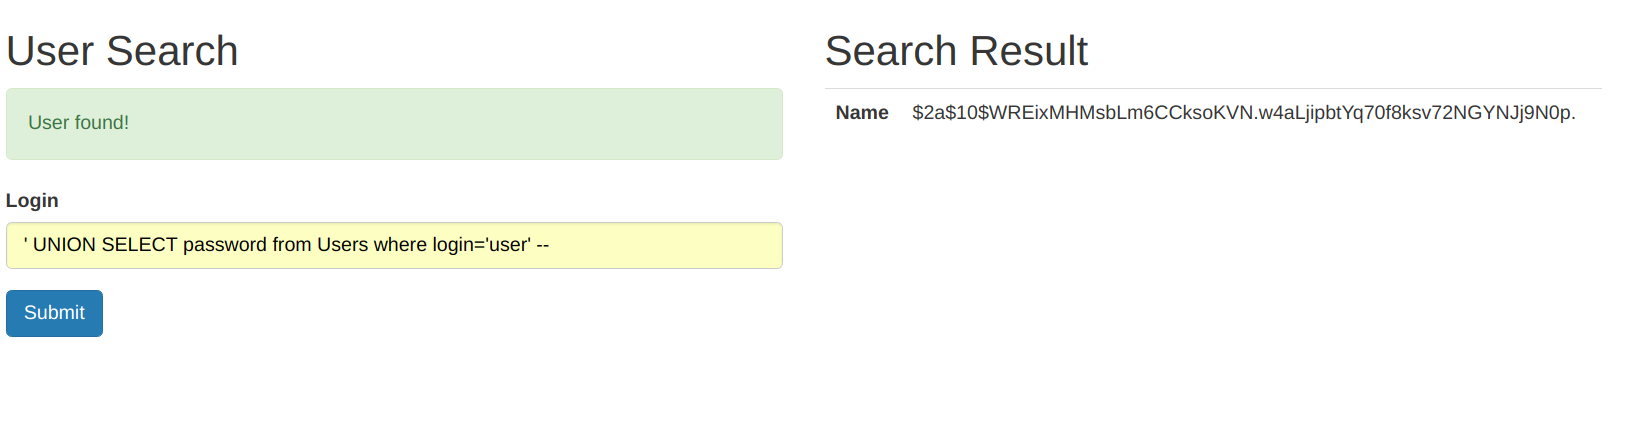
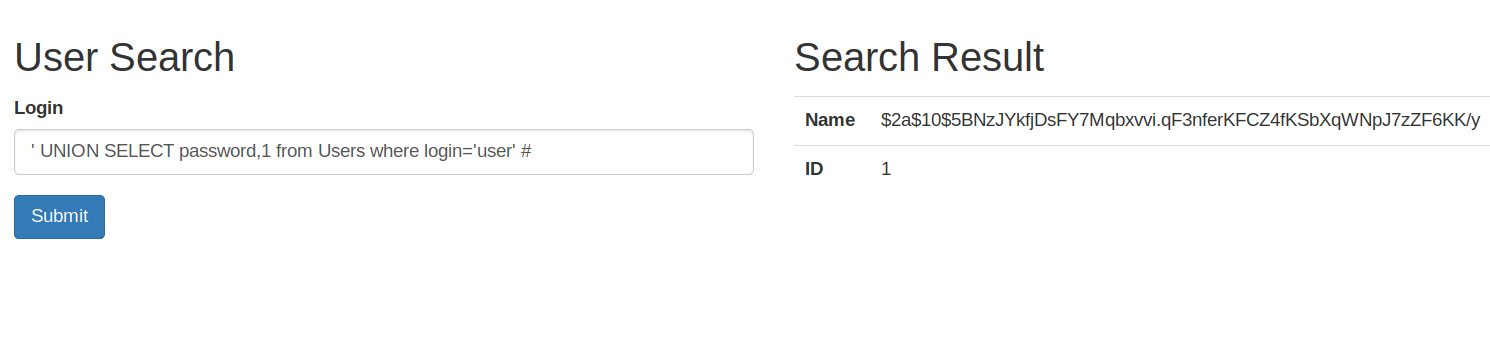
Updated docs

diff --git a/docs/solution/a1-injection.md b/docs/solution/a1-injection.md
@@ -9,7 +9,7 @@ http://127.0.0.1:9090/app/usersearch
 By injecting a single quote `'`, we see an error has occurred.
 ![sqli1](/resources/sqli1.png "SQLi Trigger")
 
-An attacker can exploit this further and obtain potentially sensitive information from the database
+An attacker can exploit this further and obtain potentially sensitive information from the database by supplying the input `' UNION SELECT password,1 from Users where login='user' #`
 ![sqli2](/resources/sqli2.png "Exploiting SQLi")
 
 **Vulnerable Code snippet**
@@ -42,6 +42,8 @@ But it is recommended to explicitly validate/sanitize inputs
 Implemented in the following files
 
 - *core/appHandler.js*
+
+The fix has been implemented in this [commit](https://github.com/appsecco/dvna/commit/dc1f9c54685eb04f55e444370d6d622834e4cc00)
 
 **Recommendation**
 
@@ -88,6 +90,8 @@ if (vh.vIP(req.body.address)){
 Implemented in the following files
 
 - *core/appHandler.js*
+
+The fix has been implemented in this [commit](https://github.com/appsecco/dvna/commit/4fe36fcfbd615fc9ea340e1238be33dd0d140ef8)
 
 **Recommendation**
 

diff --git a/docs/solution/a2-broken-auth.md b/docs/solution/a2-broken-auth.md
@@ -14,6 +14,12 @@ This issue can be exploited by an attacker to reset any user's password by using
 http://127.0.0.1:9090/resetpw?login=<username>&token=<md5(username)>
 ```
 
+You can obtain the md5sum for `user` by running the following 
+
+```bash
+echo -n 'user' | md5sum
+```
+
 **Solution**
 
 Store the password reset request along with a randomly generated token string and expiry
@@ -28,6 +34,8 @@ Implemented in the following files
 
 - *core/authHandler.js*
 - *models/passreset.js*
+
+The fix has been implemented in this [commit](https://github.com/appsecco/dvna/commit/c8d519e41a752def46d80de699a94a23800df426)
 
 ## Insecure Session Secret
 
@@ -58,6 +66,8 @@ Implemented in the following files
 
 - *server.js*
 - *config/server.js*
+
+The fix has been implemented in this [commit](https://github.com/appsecco/dvna/commit/1d01e9af620d88a938a2abdf97306fa20026b927)
 
 **Recommendation**
 

diff --git a/docs/solution/a5-broken-access-control.md b/docs/solution/a5-broken-access-control.md
@@ -60,6 +60,8 @@ Implemented in the following files
 - *routes/app.js*
 - *views/app/admin.ejs*
 
+The fix has been implemented in this [commit](https://github.com/appsecco/dvna/commit/1d10d266567a6b721bd368500838756e1cd7966b)
+
 ## Missing Authorization check in Edit User
 
 The `userEditSubmit` method fails to validate `id` parameter to ensure that the calling user has appropriate access to the object. This issue can be exploited to reset information for any user identified by id.
@@ -100,6 +102,8 @@ In our case we can use passports user object at `req.user` for modifying user in
 Implemented in the following files
 
 - *core/appHandler.js*
+
+The fix has been implemented in this [commit](https://github.com/appsecco/dvna/commit/edfe31c81e8594ac336b3fd3a558e174af9fe7b3)
 
 **Recommendation**
 

diff --git a/docs/solution/a7-xss.md b/docs/solution/a7-xss.md
@@ -41,9 +41,11 @@ Implemented in the following files
 - *server.js*
 - *views/app/products.ejs*
 
+The fix has been implemented in this [commit](https://github.com/appsecco/dvna/commit/6acbb14b51df84d4c4986d95f8fa4e3a6d600e35)
+
 ## Stored XSS in Product Listing
 
-Another XSS vulnerability exists in the same page, however at a different location
+Another XSS vulnerability exists in the same page, however at a different location. By supplying an input such as `<script>alert('xss')</script>`, we can verify the XSS
 
 **Vulnerable Code snippet**
 
@@ -76,6 +78,8 @@ Implemented in the following files
 
 - *server.js*
 - *views/app/products.ejs*
+
+The fix has been implemented in this [commit](https://github.com/appsecco/dvna/commit/6acbb14b51df84d4c4986d95f8fa4e3a6d600e35)
 
 **Recommendation**
 

diff --git a/docs/solution/a6-securty-misconfig.md b/docs/solution/a6-securty-misconfig.md
@@ -39,6 +39,8 @@ Implemented in the following files
 
 - *core/appHandler.js*
 
+The fix has been implemented in this [commit](https://github.com/appsecco/dvna/commit/9b17e5ae55a6bf0ec8ba41c25956c26e6e62badd)
+
 ## X-Powered-By header
 
 ![powered-by](/resources/powered-by.png "X-Powered-By")
@@ -54,6 +56,8 @@ Disable it using  `app.disable('x-powered-by')` in express
 Implemented in the following files
 
 - *server.js*
+
+The fix has been implemented in this [commit](https://github.com/appsecco/dvna/commit/e5810006cb91fb22bc6287f2dd67ba7c779d26fa)
 
 **Reference**
 - <https://www.owasp.org/index.php/Top_10-2017_A6-Security_Misconfiguration>

diff --git a/docs/solution/a3-sensitive-data-exposure.md b/docs/solution/a3-sensitive-data-exposure.md
@@ -38,6 +38,8 @@ Implemented in the following files
 
 - *core/appHandler.js*
 
+The fix has been implemented in this [commit](https://github.com/appsecco/dvna/commit/7c28c2e007ac48badc604e52621c37bbb8da8fbd)
+
 ## Logging of sensitive information
 
 ![info-dis](/resources/info-dis2.png "Password Hash Disclosed")
@@ -62,6 +64,8 @@ var sequelize = new Sequelize(config.database, config.username, config.password,
 Implemented in the following files
 
 - *models/index.js*
+
+The fix has been implemented in this [commit](https://github.com/appsecco/dvna/commit/60ed581799f2257e1be2d8a7747014d6b3d123af)
 
 **Recommendation**
 

diff --git a/docs/solution/ax-unvalidated-redirects-and-forwards.md b/docs/solution/ax-unvalidated-redirects-and-forwards.md
@@ -36,5 +36,7 @@ Implemented in the following files
 - *views/app/redirect.ejs*
 - *core/appHandler.js*
 
+The fix has been implemented in this [commit](https://github.com/appsecco/dvna/commit/0df0980a19778e0cf627cd09b365e3e84023cf75)
+
 **Reference**
 - https://www.owasp.org/index.php/Unvalidated_Redirects_and_Forwards_Cheat_Sheet

diff --git a/docs/solution/ax-csrf.md b/docs/solution/ax-csrf.md
@@ -39,6 +39,8 @@ Implemented in the following files
 - *views/app/modifyproducts.ejs*
 - *views/app/useredit.ejs*
 
+The fix has been implemented in this [commit](https://github.com/appsecco/dvna/commit/2c88ab87f19a9d124c925d33f346ec3897038eea)
+
 **Reference**
 
 - https://www.owasp.org/index.php/Cross-Site_Request_Forgery_(CSRF)

diff --git a/docs/solution/a8-insecure-deserialization.md b/docs/solution/a8-insecure-deserialization.md
@@ -44,6 +44,8 @@ Implemented in the following files
 
 - *core/appHandler.js*
 
+The fix has been implemented in this [commit](https://github.com/appsecco/dvna/commit/624a4ee88b3af804271d183f2921448851ddbfff)
+
 **Recommendation**
 
 - Use secure and recommended ways to implement application features

diff --git a/docs/solution/a9-using-components-with-known-vulnerability.md b/docs/solution/a9-using-components-with-known-vulnerability.md
@@ -39,6 +39,8 @@ Implemented in the following files
 
 - *package.json*
 
+The fix has been implemented in this [commit](https://github.com/appsecco/dvna/commit/5f1a4ca4c8262419321c3790757ae8719d9676a7)
+
 **Recommendation**
 
 - Dependencies must be updated regularly, and preferably automatically. 

diff --git a/docs/solution/a10-insufficient-logging.md b/docs/solution/a10-insufficient-logging.md
@@ -50,6 +50,8 @@ Implemented in the following files
 - *core/passport.js*
 - *core/authHandler.js*
 
+The fix has been implemented in this [commit](https://github.com/appsecco/dvna/commit/56c5e82c1a000e26ae19afb67b6696d634ceab2e)
+
 **Recommendation**
 
 - Log all sensitive operations by default

diff --git a/docs/solution/a4-xxe.md b/docs/solution/a4-xxe.md
@@ -53,6 +53,8 @@ Implemented in the following file
 
 - *core/appHandler.js*
 
+The fix has been implemented in this [commit](https://github.com/appsecco/dvna/commit/15f9dc298ff8e46f0dbeca6b260416c086db2446)
+
 **Recommendation**
 
 - Ensure that External entity parsing is disabled
